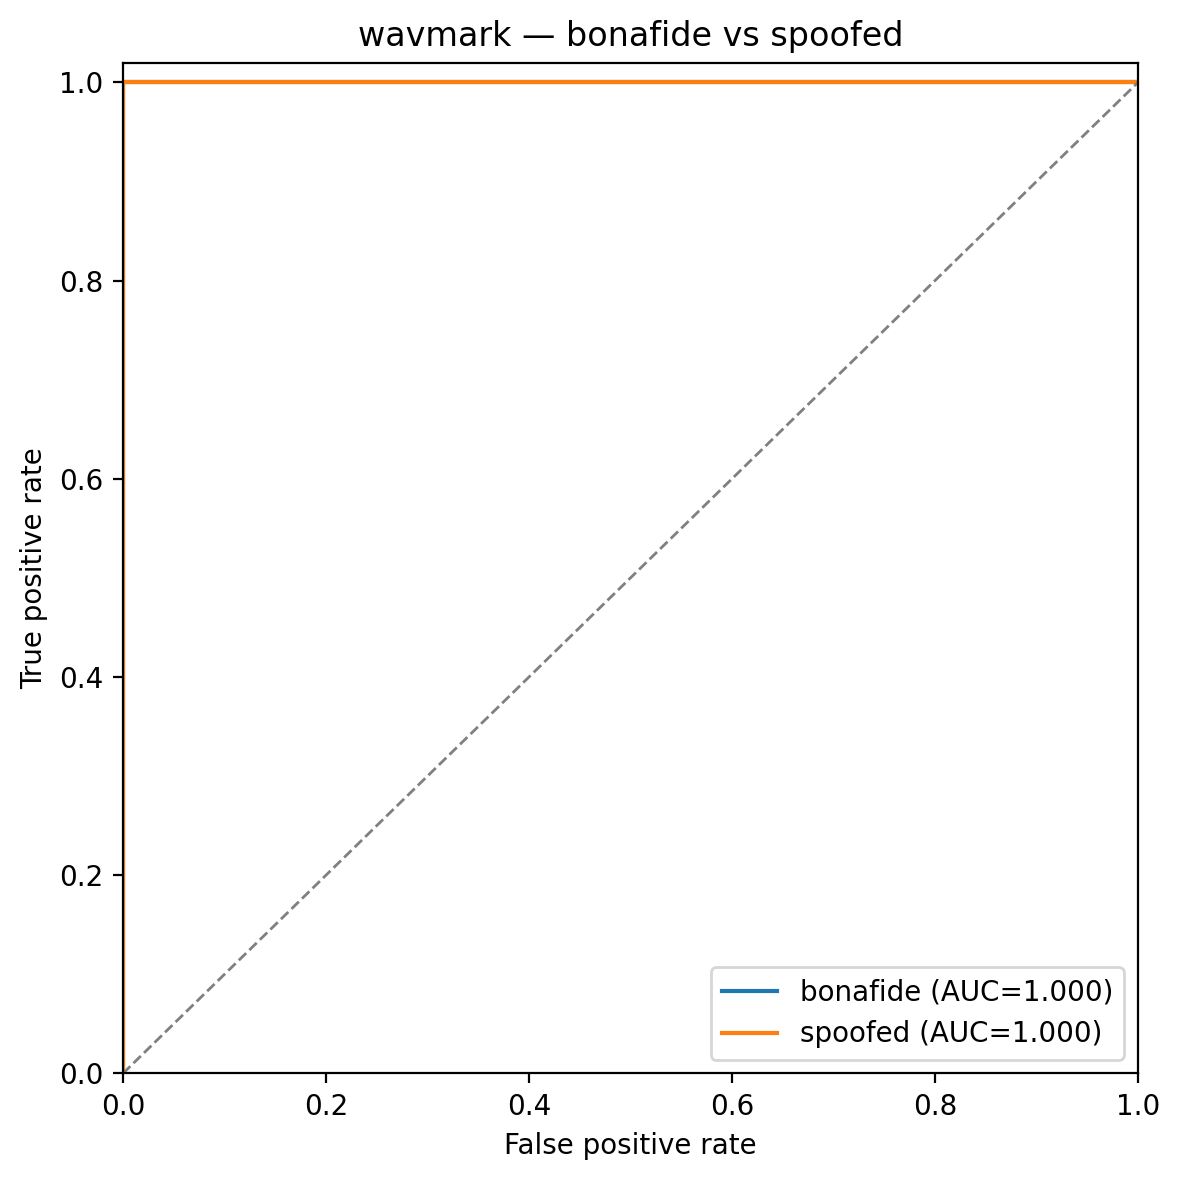
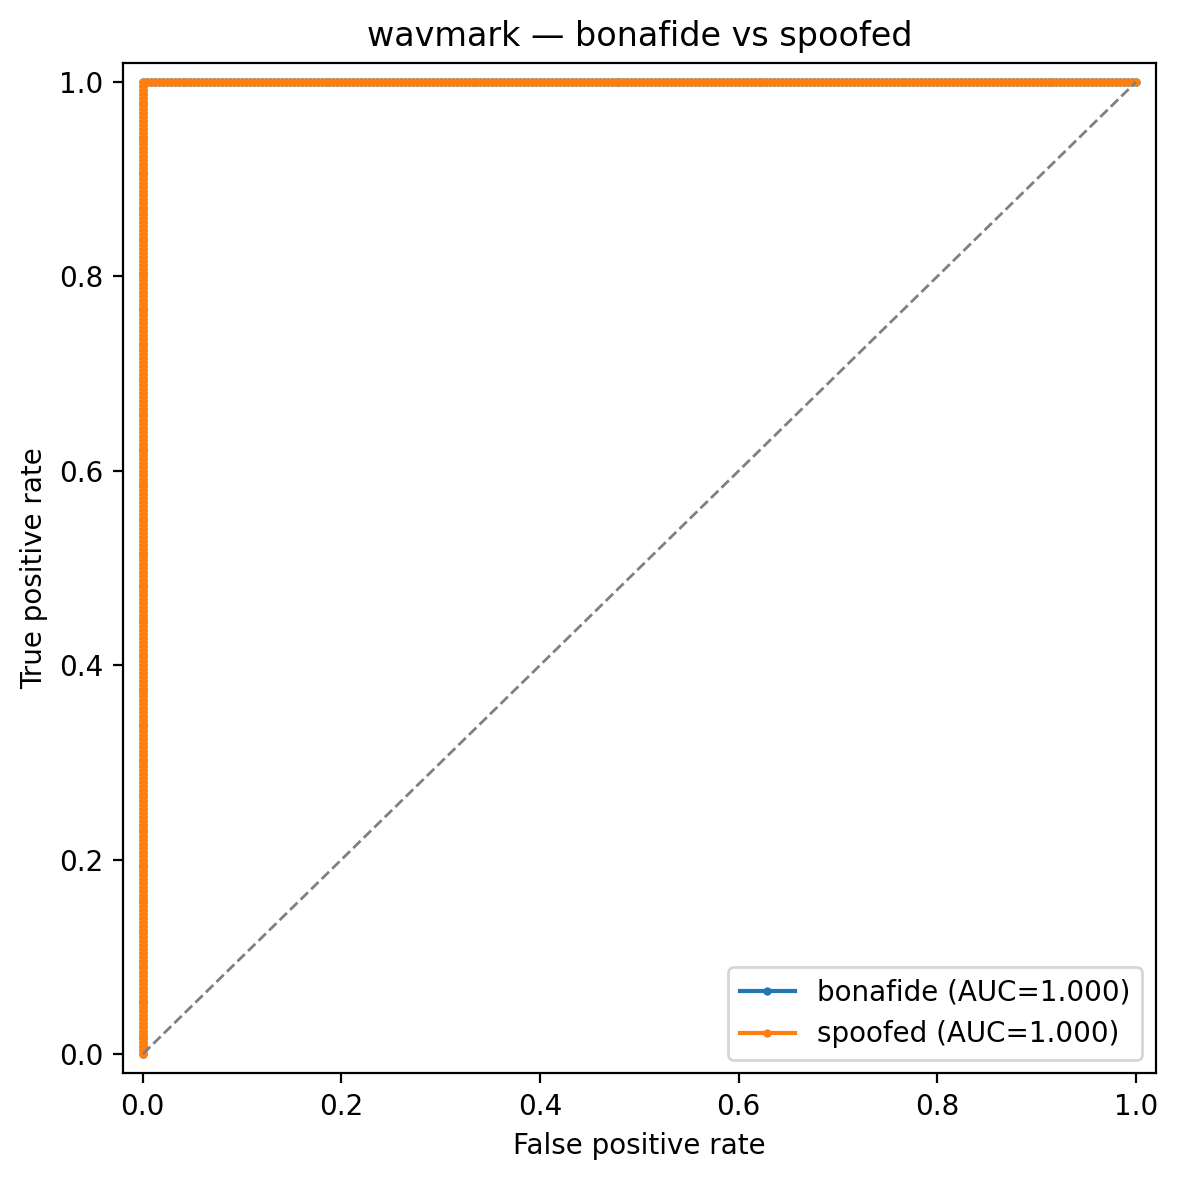
ROC curve plots made easier to see

diff --git a/src/detection_metrics.py b/src/detection_metrics.py
@@ -82,14 +82,16 @@ def metrics_for(rows: list[dict], threshold: float) -> dict:
 def plot_roc(curves: dict, title: str, out_path: Path) -> None:
     fig = plt.figure(figsize=(6, 6))
     for name, (fpr, tpr, auc) in curves.items():
-        plt.plot(fpr, tpr, label=f"{name} (AUC={auc:.3f})")
+        plt.plot(fpr, tpr, marker=".", markersize=4, label=f"{name} (AUC={auc:.3f})")
     plt.plot([0, 1], [0, 1], linestyle="--", color="gray", linewidth=1)
     plt.xlabel("False positive rate")
     plt.ylabel("True positive rate")
     plt.title(title)
     plt.legend(loc="lower right")
-    plt.xlim(0, 1)
-    plt.ylim(0, 1.02)
+    # Pad the limits slightly so a perfect curve's vertical leg (FPR=0) and
+    # horizontal leg (TPR=1) don't sit flush against the axis borders.
+    plt.xlim(-0.02, 1.02)
+    plt.ylim(-0.02, 1.02)
     fig.tight_layout()
     fig.savefig(out_path, dpi=200, bbox_inches="tight")
     plt.close(fig)
